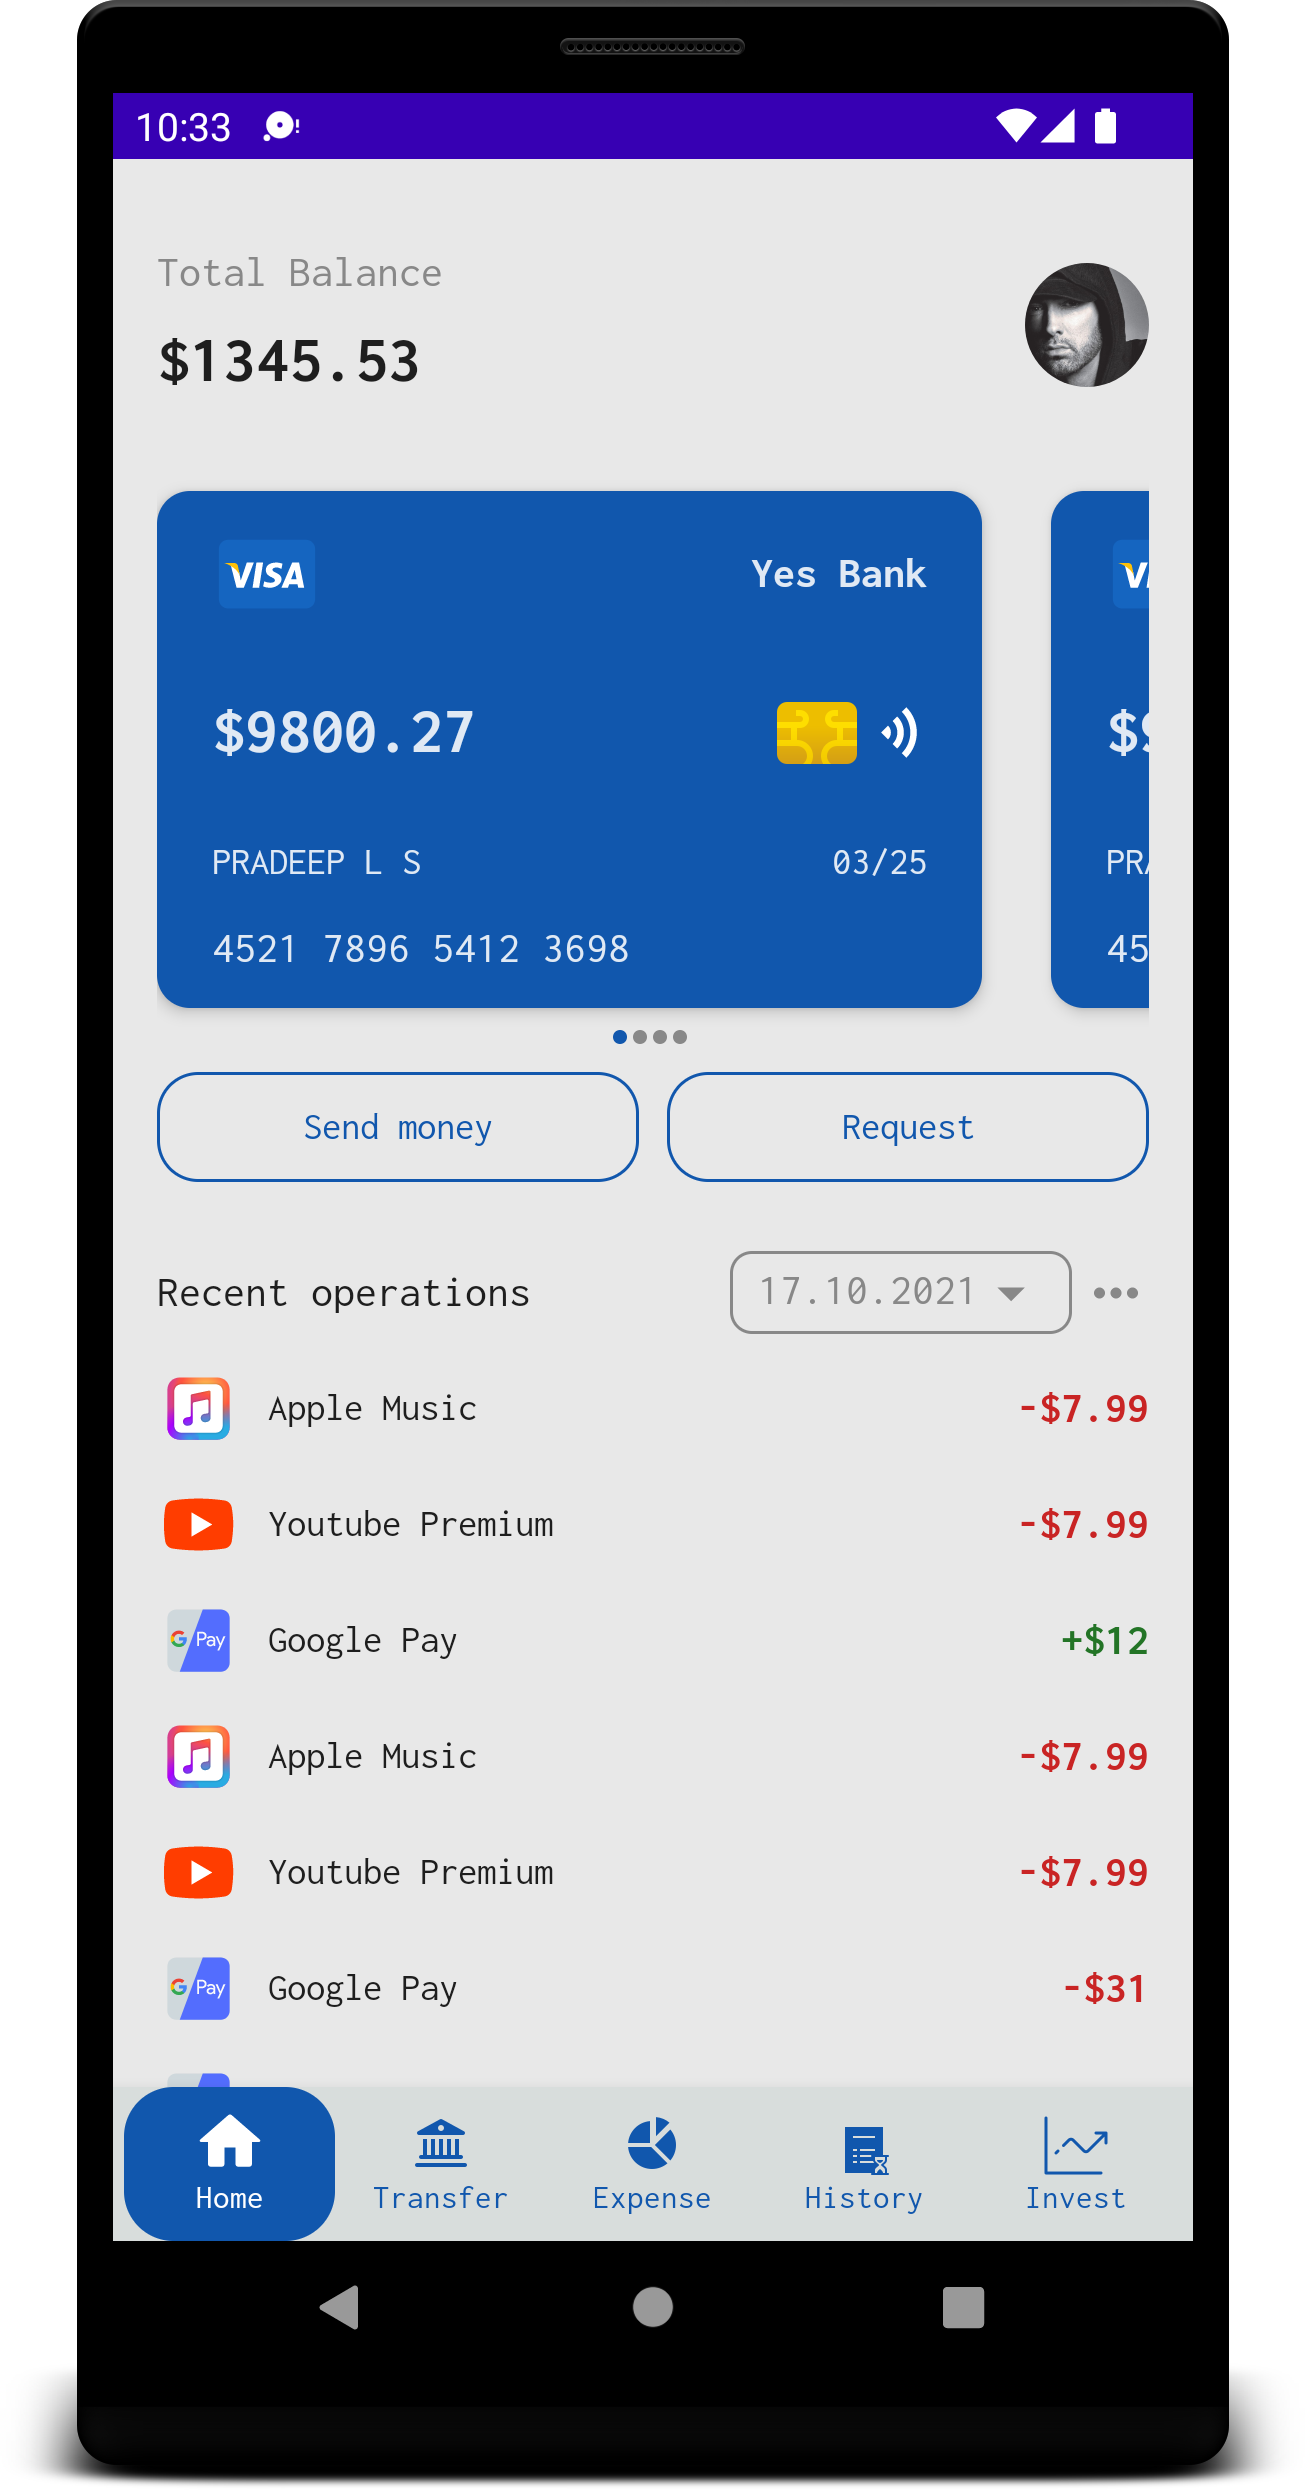
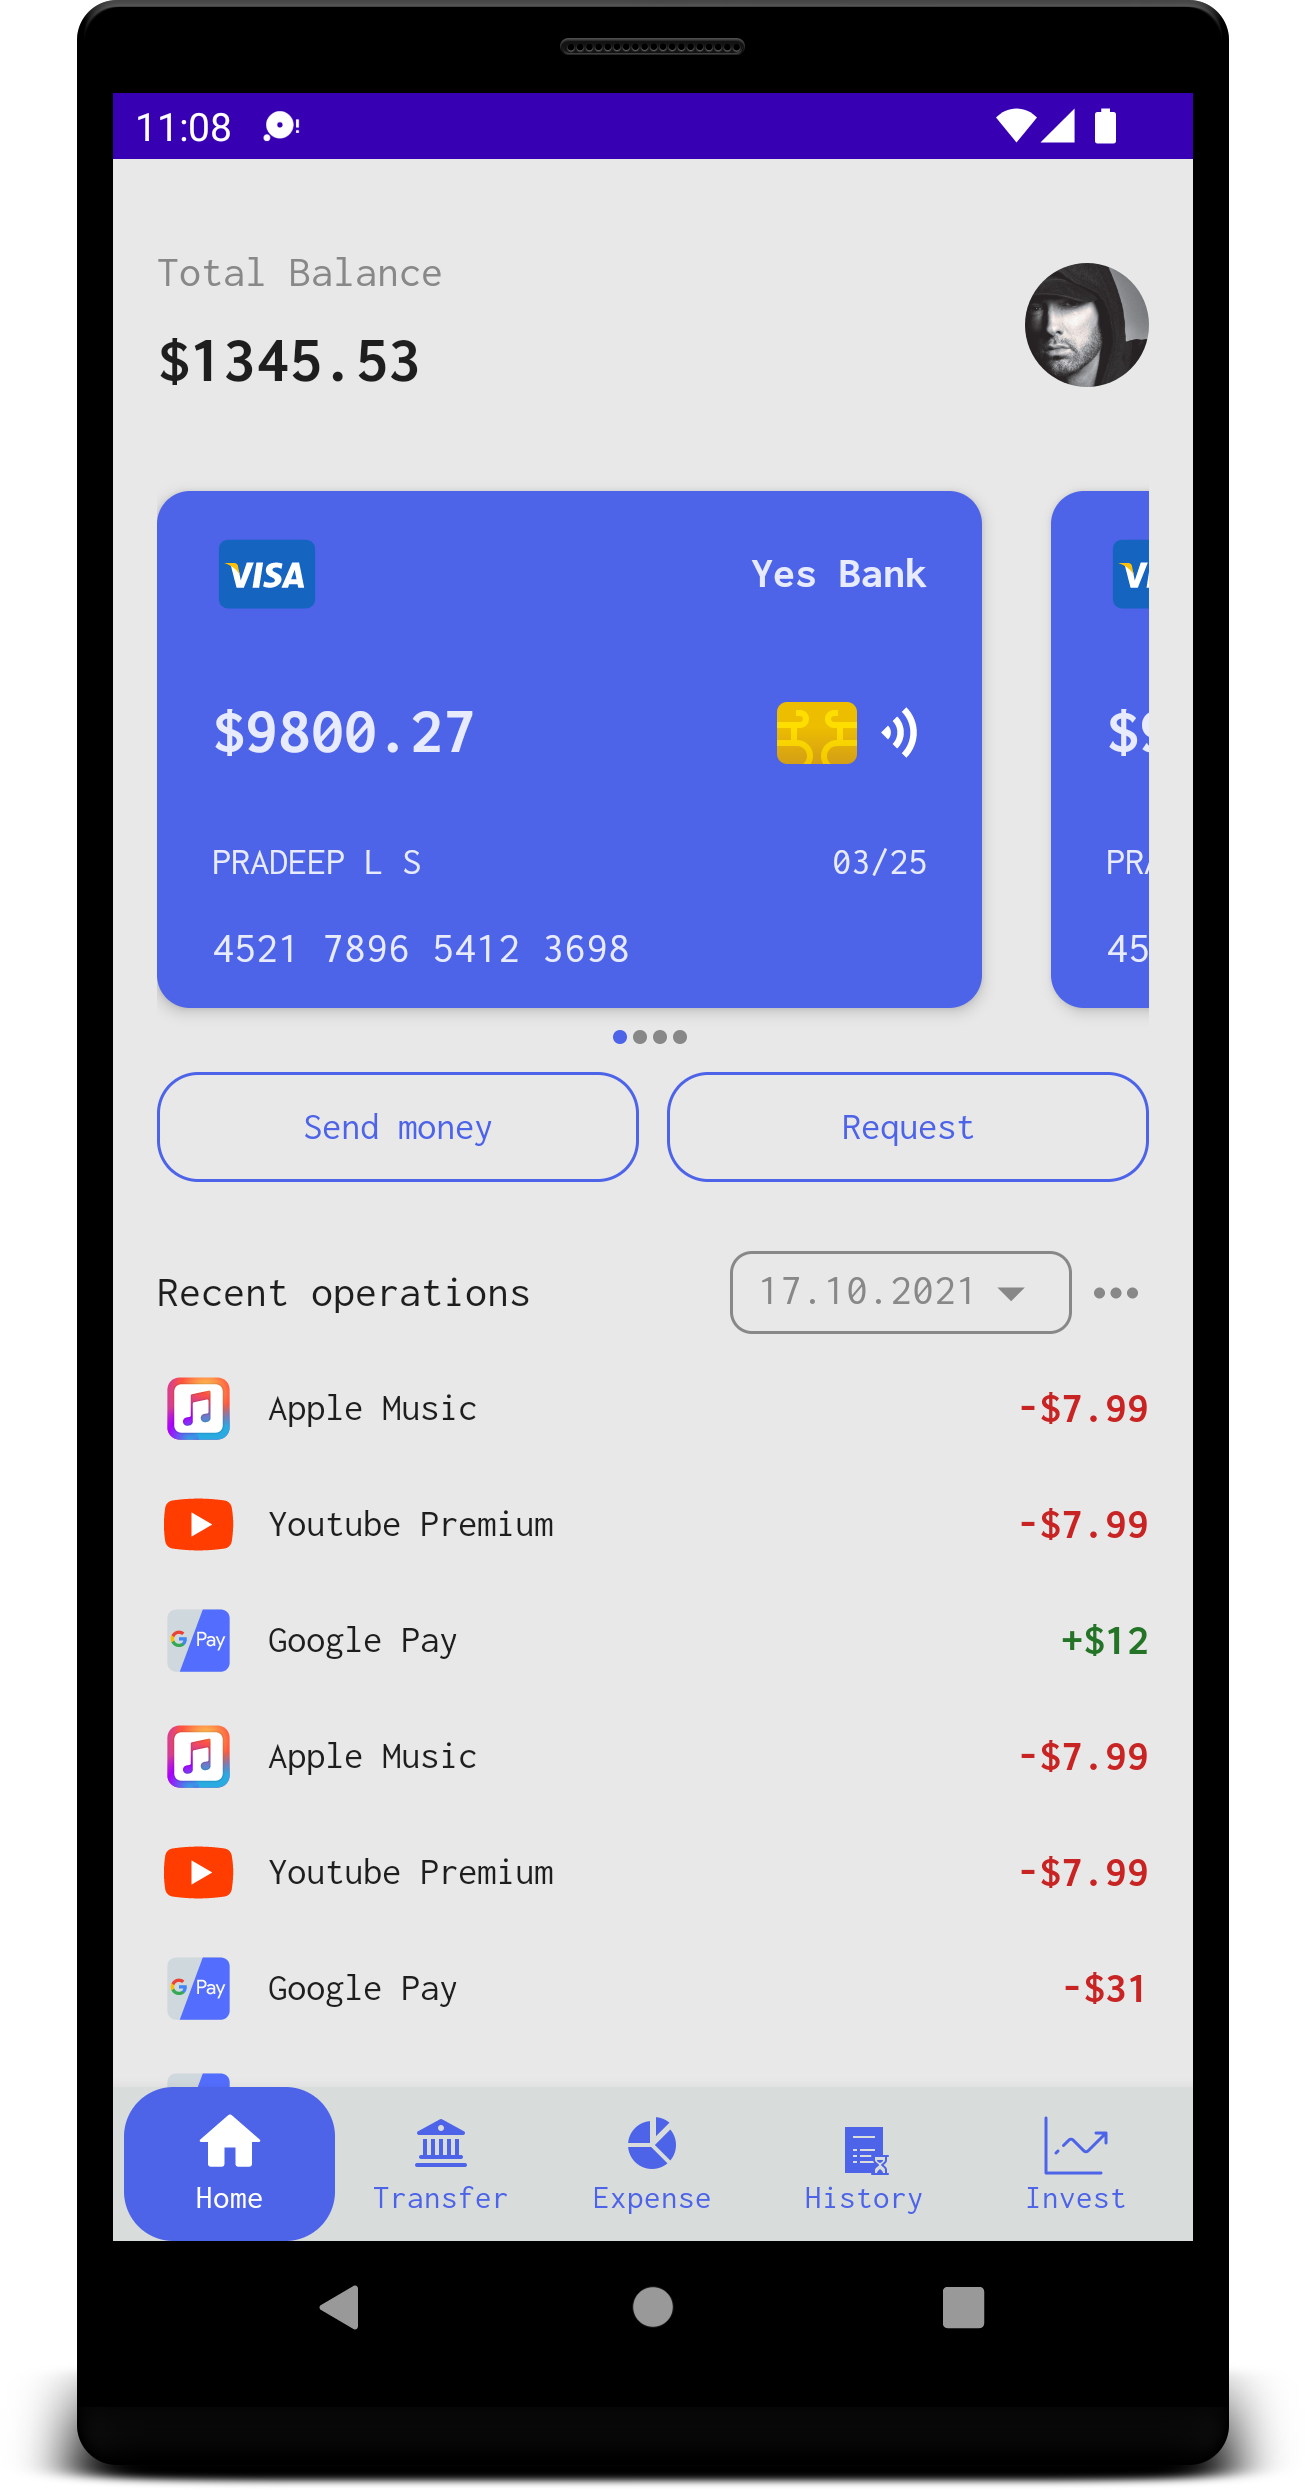
Second commit

diff --git a/app/src/main/java/com/android/bankapp/ui/theme/Color.kt b/app/src/main/java/com/android/bankapp/ui/theme/Color.kt
@@ -2,9 +2,9 @@ package com.android.bankapp.ui.theme
 
 import androidx.compose.ui.graphics.Color
 
-val primaryColorDark = Color(0xFF8692FC)
-val primaryColor = Color(0xFF1157AD)
-val primaryVariant = Color(0xFF0048B3)
+val primaryColorDark = Color(0xFF637BFA)
+val primaryColor = Color(0xFF4D63E8)
+val primaryVariant = Color(0xFF4D63E8)
 val secondaryColor = Color(0xFF03DAC5)
 
 val lightGray = Color(0xFFD8DDDC)
